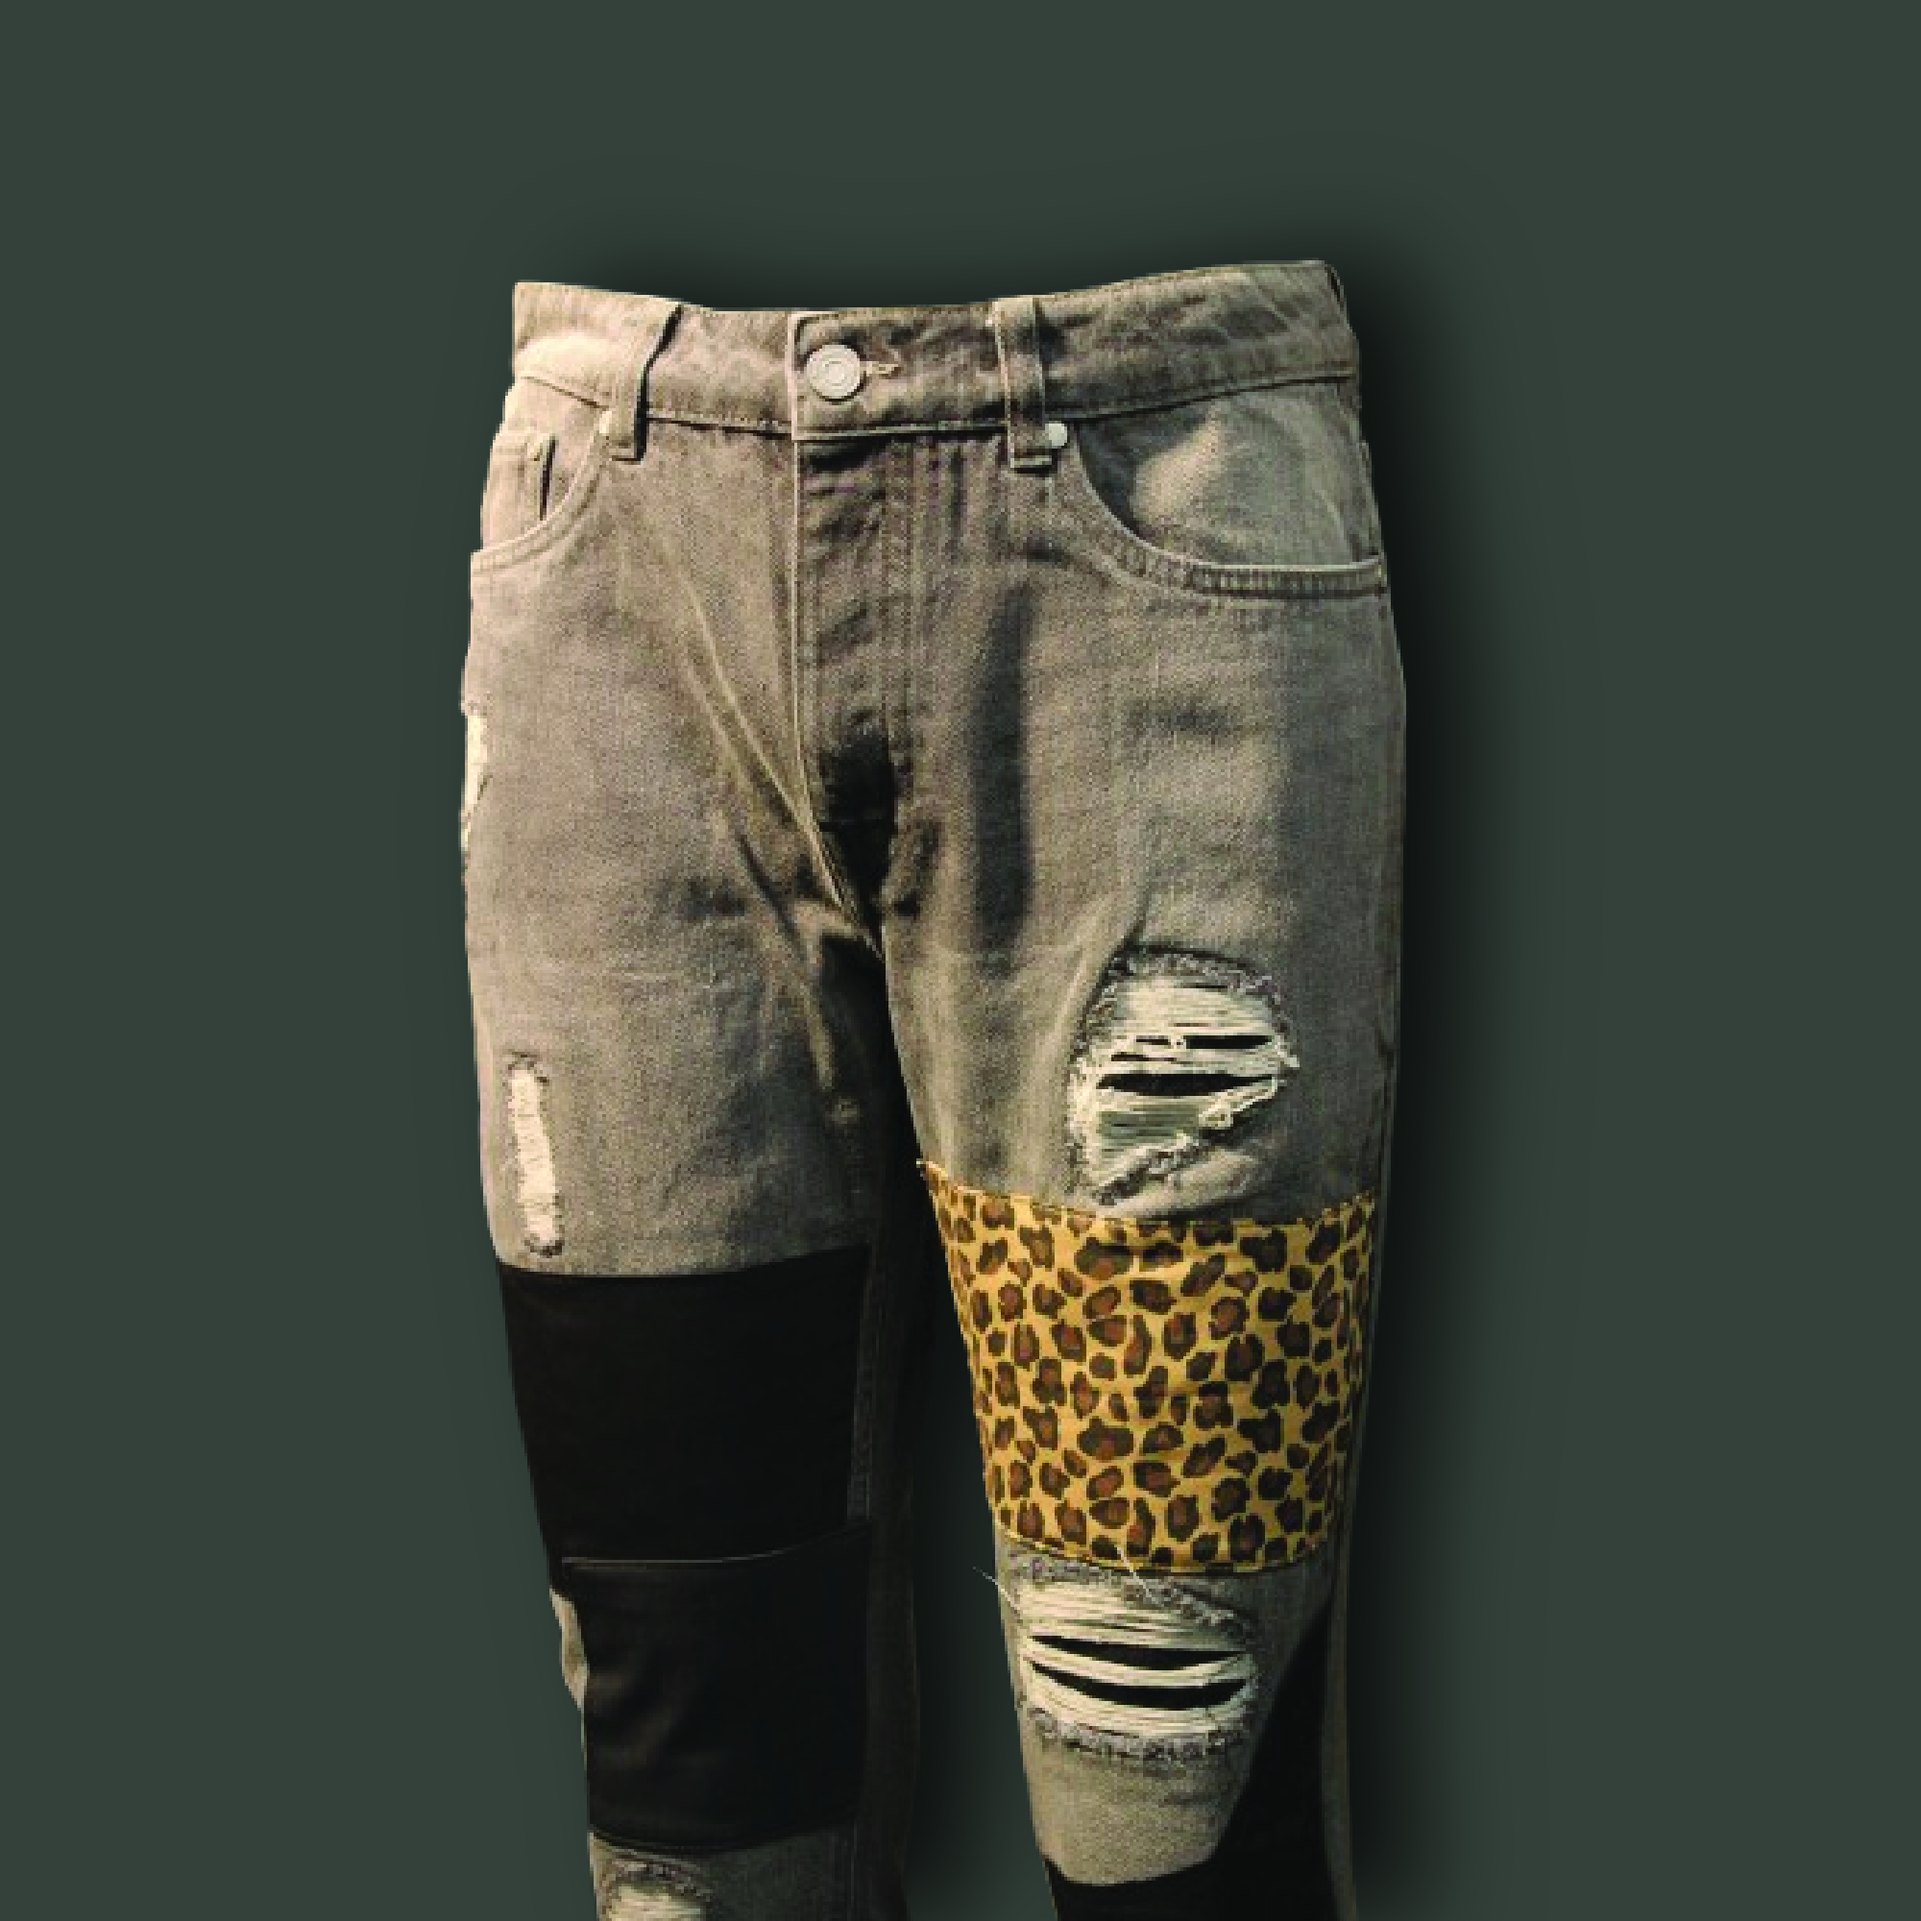
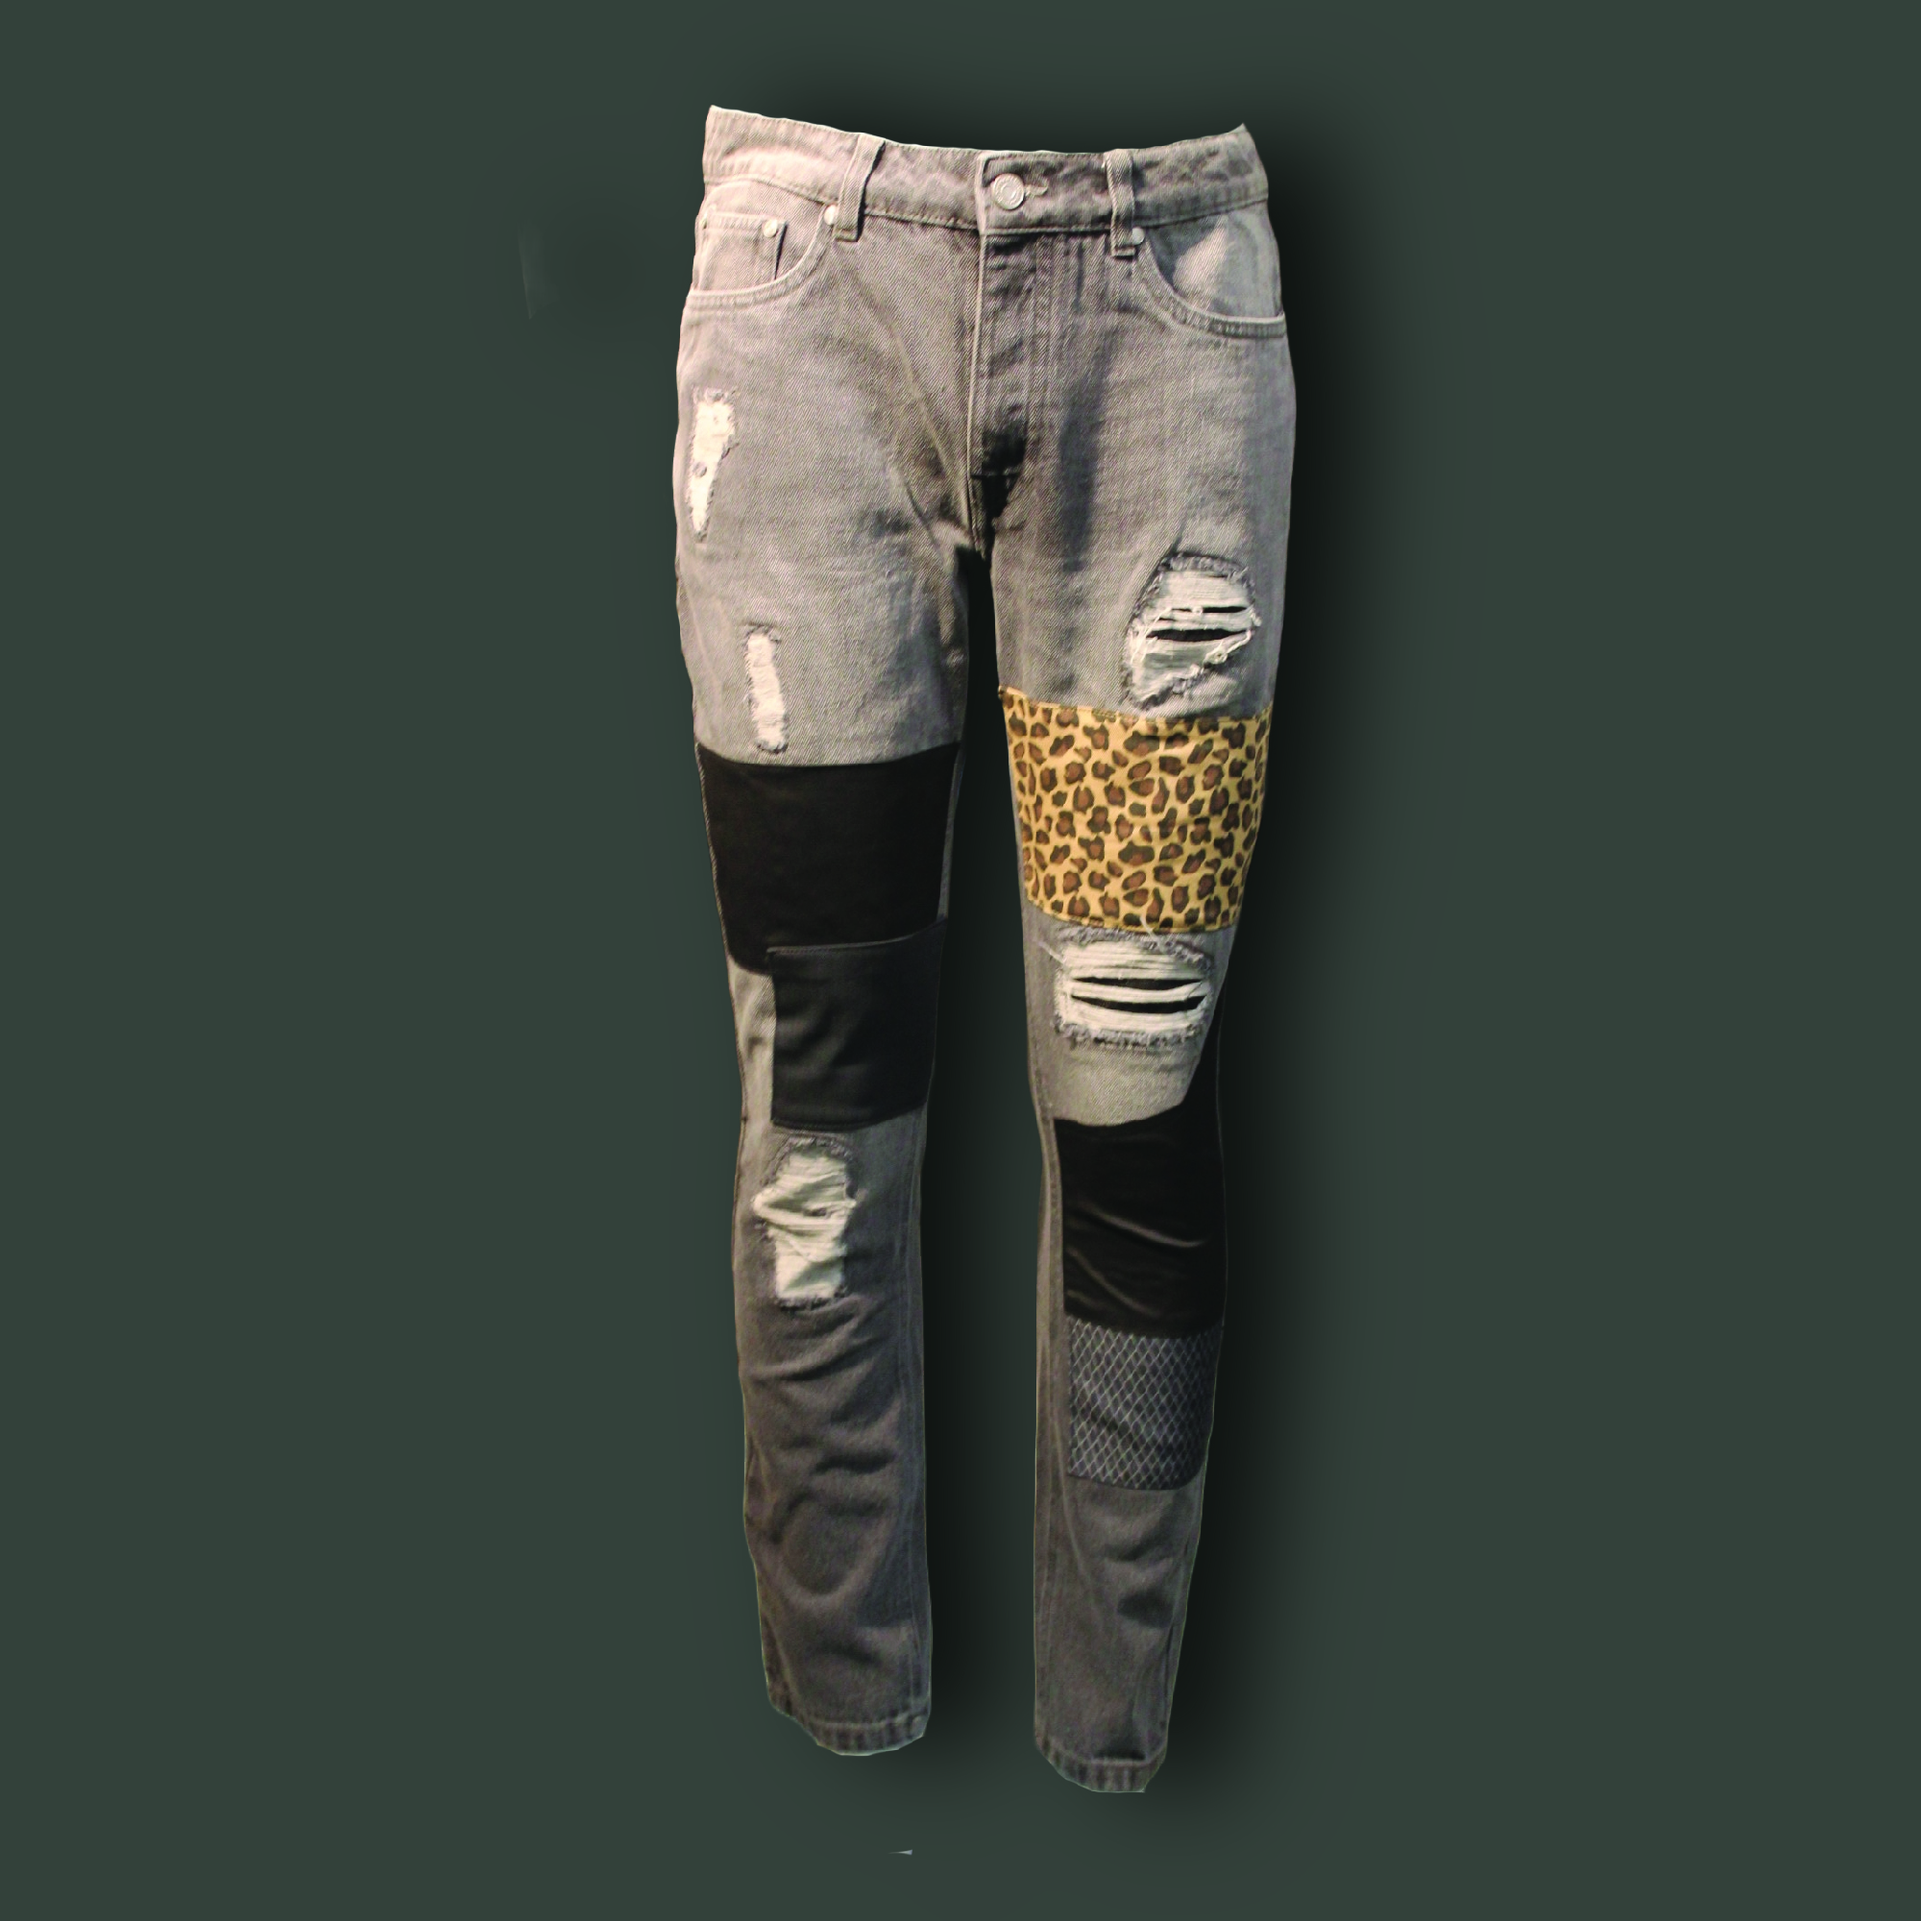
Iamges with different angles added in man and women.

diff --git a/src/slides.ts b/src/slides.ts
@@ -1,16 +1,26 @@
 // Mens images
 import image01 from "/images/man/01.jpg";
+import image00001 from "/images/man/01-02.jpg";
 import image02 from "/images/man/02.jpg";
+import image0002 from "/images/man/02-02.jpg";
 import image03 from "/images/man/03.jpg";
+import image0003 from "/images/man/03-02.jpg";
 import image04 from "/images/man/04.jpg";
 import image05 from "/images/man/05.jpg";
+import image00005 from "/images/man/05-02.jpg";
 import image06 from "/images/man/06.jpg";
 import image07 from "/images/man/07.jpg";
+import image007 from "/images/man/07-02.jpg"
 import image08 from "/images/man/08.jpg";
+import image008 from "/images/man/08-02.jpg";
 import image09 from "/images/man/09.jpg";
+import image009 from "/images/man/09-02.jpg";
 import image010 from "/images/man/10.jpg";
+import image0010 from "/images/man/10-02.jpg";
 import image011 from "/images/man/11.jpg";
+import image0011 from "/images/man/11-02.jpg";
 import image012 from "/images/man/12.jpg";
+import image0012 from "/images/man/12-02.jpg";
 import image013 from "/images/man/13.jpg";
 import image0013 from "/images/man/13-02.jpg";
 import image014 from "/images/man/14.jpg";
@@ -26,6 +36,10 @@ import image020 from "/images/man/20.jpg";
 import image021 from "/images/man/21.jpg";
 import image022 from "/images/man/22.jpg";
 import image023 from "/images/man/23.jpg";
+import image0023 from "/images/man/23-02.jpg";
+import image024 from "/images/man/24.jpg";
+import image0024 from "/images/man/24-02.jpg";
+import image025 from "/images/man/25.jpg";
 
 // Women Images
 
@@ -39,9 +53,12 @@ import image7 from "/images/woman/07.jpg"
 import image8 from "/images/woman/08.jpg"
 import image9 from "/images/woman/09.jpg"
 import image10 from "/images/woman/10.jpg"
+import image00010 from "/images/woman/10-02.jpg"
 import image11 from "/images/woman/11.jpg"
 import image12 from "/images/woman/12.jpg"
-
+import image13 from "/images/woman/13.jpg"
+import image14 from "/images/woman/14.jpg"
+import image0014 from "/images/woman/14-02.jpg"
 // Kids  Images
 
 import image001 from "/images/Kids/01.jpg"
@@ -56,21 +73,21 @@ import image006 from "/images/Kids/06.jpg"
 export const slides = [
     {
         id: "1", 
-        src: [image01],
+        src: [image01,image00001],
         title: "Slide Title Open",
         disc: "Jacket1",
         category :"Man"
     },
     {
         id: "2",  
-        src: [image02],
+        src: [image02,image0002],
         title: "Slide Title Open",
         disc: "Jacket2",
         category :"Man"
     },
     {
         id: "3",  
-        src: [image03],
+        src: [image03,image0003],
         title: "Slide Title Open",
         disc: "Jacket3",
         category :"Man"
@@ -84,7 +101,7 @@ export const slides = [
     },
     {
         id: "5",  
-        src: [image05],
+        src: [image05,image00005],
         title: "Slide Title Open",
         disc: "Jeans2",
         category :"Man"
@@ -98,7 +115,7 @@ export const slides = [
     },
     {
         id: "7",  
-        src: [image07],
+        src: [image07,image007],
         title: "Slide Title Open",
         disc: "Jeans3",
         category :"Man"
@@ -106,35 +123,35 @@ export const slides = [
 
     {
         id: "8",  
-        src: [image08],
+        src: [image08,image008],
         title: "Slide Title Open",
         disc: "Jeans3",
         category :"Man"
     },
     {
         id: "9",  
-        src: [image09],
+        src: [image09,image009],
         title: "Slide Title Open",
         disc: "Jeans3",
         category :"Man"
     },
     {
         id: "10",  
-        src: [image010],
+        src: [image010,image0010],
         title: "Slide Title Open",
         disc: "Jeans3",
         category :"Man"
     },
     {
         id: "11",  
-        src: [image011],
+        src: [image011 , image0011],
         title: "Slide Title Open",
         disc: "Jeans3",
         category :"Man"
     },
     {
         id: "12",  
-        src: [image012],
+        src: [image012,image0012],
         title: "Slide Title Open",
         disc: "Jeans3",
         category :"Man"
@@ -213,24 +230,38 @@ export const slides = [
     
     {
         id: "23",  
-        src: [image023],
+        src: [image023,image0023],
+        title: "Slide Title Open",
+        disc: "Jeans3",
+        category :"Man"
+    },
+    {
+        id: "24",  
+        src: [image024,image0024],
+        title: "Slide Title Open",
+        disc: "Jeans3",
+        category :"Man"
+    },
+    
+    {
+        id: "25",  
+        src: [image025],
         title: "Slide Title Open",
         disc: "Jeans3",
         category :"Man"
     },
     
   
-
     // Woman Category
     {
-        id: "28", 
+        id: "26", 
         src: [image1],
         title: "Slide Title Open",
         disc: "Jacket1",
         category :"Woman"
     },
     {
-        id: "29", 
+        id: "27", 
         src: [image2],
         title: "Slide Title Open",
         disc: "Jacket1",
@@ -238,115 +269,130 @@ export const slides = [
     },
 
     {
-        id: "30", 
+        id: "28", 
         src: [image3],
         title: "Slide Title Open",
         disc: "Jacket1",
         category :"Woman"
     },
     {
-        id: "31", 
+        id: "29", 
         src: [image4],
         title: "Slide Title Open",
         disc: "Jacket1",
         category :"Woman"
     },
     {
-        id: "32", 
+        id: "30", 
         src: [image5],
         title: "Slide Title Open",
         disc: "Jacket1",
         category :"Woman"
     },
     {
-        id: "33", 
+        id: "31", 
         src: [image6],
         title: "Slide Title Open",
         disc: "Jacket1",
         category :"Woman"
     },
     {
-        id: "34", 
+        id: "32", 
         src: [image7],
         title: "Slide Title Open",
         disc: "Jacket1",
         category :"Woman"
     },
     {
-        id: "35", 
+        id: "33", 
         src: [image8],
         title: "Slide Title Open",
         disc: "Jacket1",
         category :"Woman"
     },
     {
-        id: "36", 
+        id: "34", 
         src: [image9],
         title: "Slide Title Open",
         disc: "Jacket1",
         category :"Woman"
     },
     {
-        id: "37", 
-        src: [image10],
+        id: "35", 
+        src: [image10,image00010],
         title: "Slide Title Open",
         disc: "Jacket1",
         category :"Woman"
     },
     {
-        id: "38", 
+        id: "36", 
         src: [image11],
         title: "Slide Title Open",
         disc: "Jacket1",
         category :"Woman"
     },
     {
-        id: "39", 
+        id: "37", 
         src: [image12],
         title: "Slide Title Open",
         disc: "Jacket1",
         category :"Woman"
     },
+    {
+        id: "38", 
+        src: [image13],
+        title: "Slide Title Open",
+        disc: "Jacket1",
+        category :"Woman"
+    },
+    {
+        id: "39", 
+        src: [image14,image0014],
+        title: "Slide Title Open",
+        disc: "Jacket1",
+        category :"Woman"
+    },
+    
 
     // Kids Category
 
     {
-        id: "40", 
+        id: "39", 
         src: [image001,image0001],
         title: "Slide Title Open",
         disc: "Jacket1",
         category :"Kids"
     },
     {
-        id: "41", 
+        id: "40", 
         src: [image002],
         title: "Slide Title Open",
         disc: "Jacket1",
         category :"Kids"
     },
     {
-        id: "42", 
+        id: "41", 
         src: [image003],
         title: "Slide Title Open",
         disc: "Jacket1",
         category :"Kids"
     },
     {
-        id: "43", 
+        id: "42", 
         src: [image004],
         title: "Slide Title Open",
         disc: "Jacket1",
         category :"Kids"
     },
     {
-        id: "44", 
+        id: "43", 
         src: [image005],
         title: "Slide Title Open",
         disc: "Jacket1",
         category :"Kids"
     },
     {
-        id: "45", 
+        id: "44", 
         src: [image006],
         title: "Slide Title Open",
         disc: "Jacket1",
